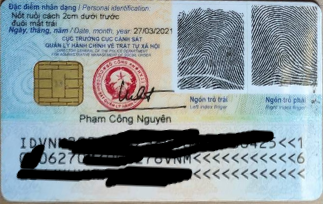
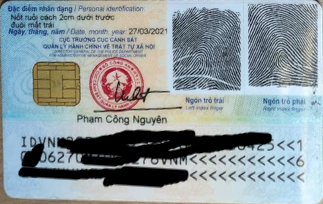
Changed Interpo from lanc to Linear

diff --git a/perwarp.py b/perwarp.py
@@ -11,4 +11,4 @@ def warp_perspective(img, points_objs: list, rwidth=None, rheight=None):
     unwarp = np.array([[x1, y1], [x2, y2], [x3, y3], [x4, y4]], dtype=np.float32)
     warped = np.array([[0, 0], [rwidth, 0], [0, rheight], [rwidth, rheight]], dtype=np.float32)
     tranform_mat = cv2.getPerspectiveTransform(unwarp, warped)
-    return cv2.warpPerspective(img, tranform_mat, (rwidth, rheight), flags=cv2.INTER_LANCZOS4)
+    return cv2.warpPerspective(img, tranform_mat, (rwidth, rheight), flags=cv2.INTER_LINEAR)

diff --git a/pre_edit.py b/pre_edit.py
@@ -76,7 +76,7 @@ class ImageRotator:
         scale_factor = min(max_width / width, max_height / height)
         new_width = width * scale_factor
         new_height = height * scale_factor
-        return self.image.resize((int(new_width), int(new_height)), PIL.Image.LANCZOS)
+        return self.image.resize((int(new_width), int(new_height)), PIL.Image.BILINEAR)
 
 
 if __name__ == "__main__":
